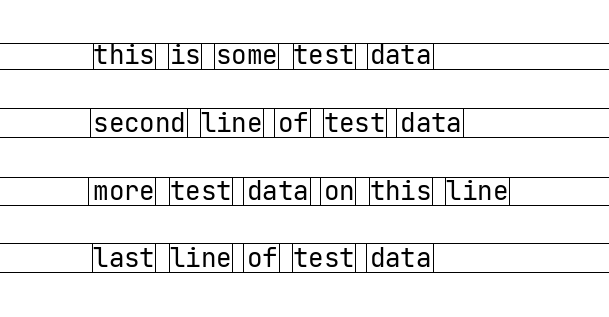
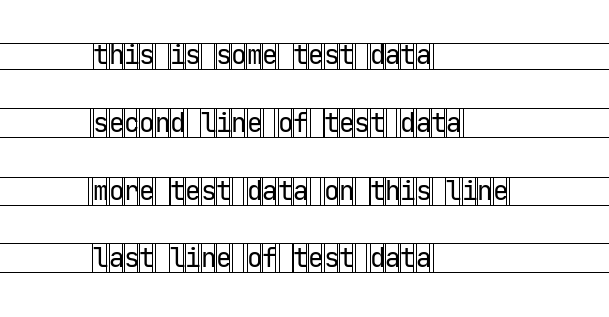
detect characters

diff --git a/src/computer_vision/src/character_detection.c b/src/computer_vision/src/character_detection.c
@@ -34,6 +34,21 @@ void scan_image(document * self, matrix * image){
         while (current_line_p) {
 
             self->detect_words(current_line_p);
+
+            if (current_line_p->words) {
+
+                word * current_word_p = current_line_p->words;
+
+                while (current_word_p) {
+
+                    self->detect_characters(current_word_p);
+
+                    current_word_p = current_word_p->next;
+
+                }
+
+            }
+
             current_line_p = current_line_p->next;
 
         }
@@ -103,7 +118,7 @@ void detect_lines(document * self, matrix * image){
 
 
     adjusted_lines = realloc(adjusted_lines, sizeof(tmp_feature) * adjusted_line_counter);
-    printf("\n%d\n", adjusted_line_counter);
+    /* printf("\n%d\n", adjusted_line_counter); */
 
     // now add some top and bottom padding to the lines.
 
@@ -130,10 +145,9 @@ void detect_lines(document * self, matrix * image){
 
 void detect_words(line * self) {
 
-    printf("in the detect words function\n");
     // rough working
     int rough_char_width = self->pixels->y * 0.6; // characters are not usually wider than they are tall
-    printf("rough char_width = %d\n", rough_char_width);
+    /* printf("rough char_width = %d\n", rough_char_width); */
     int max_possible_characters = self->pixels->x / rough_char_width;
     tmp_feature * possible_words = (tmp_feature *) malloc(sizeof(tmp_feature) * max_possible_characters);
 
@@ -146,10 +160,10 @@ void detect_words(line * self) {
 
     for (int i = 0; i < historgram->x; i++) {
         if (historgram->array[i] >= average_column_intensity) {
-            printf("+");
+            /* printf("+"); */
             character_counter++;
         } else {
-            printf("-");
+            /* printf("-"); */
             if (character_counter > 0){
 
                 int sum_below_average = 0;
@@ -160,7 +174,7 @@ void detect_words(line * self) {
                 if (sum_below_average == rough_char_width) {
                     possible_words[word_counter].x = i - character_counter;
                     possible_words[word_counter].w = character_counter;
-                    printf("\n eow %d\n", character_counter);
+                    /* printf("\n eow %d\n", character_counter); */
                     character_counter = 0;
                     word_counter++;
                 } else {
@@ -170,7 +184,7 @@ void detect_words(line * self) {
         }
     }
 
-    printf("num words: %d\n", word_counter);
+    /* printf("num words: %d\n", word_counter); */
     possible_words = realloc(possible_words, sizeof(tmp_feature) * word_counter);
 
     // apply some L, R padding to the words and append to linked list.
@@ -189,9 +203,47 @@ void detect_words(line * self) {
 
 };
 
-void detect_characters(word * current_word) {
+void detect_characters(word * self) {
 
-    return;
+    int rough_char_width = 0.6 * self->pixels->y;
+
+    matrix * historgram = vert_density(self->pixels);
+    float average_column_intensity = average_darkness(historgram);
+    float average_word_intenstiy = average_darkness(self->pixels);
+
+    tmp_feature * characters = (tmp_feature *) malloc(sizeof(tmp_feature) * 50); // unlikely to be more than 50 characters in a single word!
+    int width = 0;
+    int character_counter = 0;
+
+    for (int i = 0; i < historgram->x; i++) {
+
+        if (historgram->array[i] >= (average_column_intensity - (average_column_intensity * 0.75))) {
+            width++;
+        } else {
+            if (width > 0) {
+               characters[character_counter].x = i - width; 
+               characters[character_counter].w = width; 
+               width = 0;
+               character_counter ++;
+            }
+        }
+    }
+
+    characters = (tmp_feature *) realloc(characters, sizeof(tmp_feature) * character_counter);
+
+    for (int i = 0; i < character_counter; i++) {
+        
+        characters[i].x -= 0.1 * characters[i].w;
+        characters[i].w += 0.2 * characters[i].w;
+        characters[i].w ++;
+        character * character_p = (character *) doc_type_constructor(Character, self->pixels, characters[i].x, 0, characters[i].w, self->pixels->y);
+
+        if (!self->characters) {
+            self->characters = character_p;
+        } else {
+            append_list(self->characters, character_p, Character);
+        }
+    }
 
 }
 
@@ -209,7 +261,25 @@ void draw_outlines(document * self, matrix * image){
 
             while (current_word_p) {
 
-                printf("drawing outline of word\n");
+                if (current_word_p->characters) {
+
+                    character * current_characrer_p = current_word_p->characters;
+
+                    while (current_characrer_p) {
+
+                        for ( int i = 0; i < current_characrer_p->pixels->y; i++) {
+
+                            image->array[((current_line_p->y + i) * image->x) + current_word_p->x + current_characrer_p->x] = 255.0;
+                            image->array[((current_line_p->y + i) * image->x) + (current_word_p->x + current_characrer_p->x + current_characrer_p->pixels->x  - 2)] = 255.0;
+
+                        }
+
+                        current_characrer_p = current_characrer_p->next;
+                    }
+
+                }
+
+                /* printf("drawing outline of word\n"); */
 
                 for (int i = 0; i < current_word_p->pixels->y; i++) {
                     image->array[((current_line_p->y + i) * image->x) + current_word_p->x] = 255.0;

diff --git a/src/computer_vision/src/convolution.c b/src/computer_vision/src/convolution.c
@@ -37,9 +37,9 @@ float * create_kernel(kernel_configuration type, int kernel_dimensions) {
     } else if (type == Sharpen) {
         
         //radius must equal 3
-        float weights[] = {0.0,  -1.0, 0.0,
-                           -1.0, 5.0,  -1.0,
-                           0.0,  -1.0, 0.0};
+        float weights[] = { 0.0,  -1.0,  0.0,
+                           -1.0,   5.0, -1.0,
+                            0.0,  -1.0,  0.0 };
 
         memcpy(kernel, weights, sizeof(float) * 9);
         
